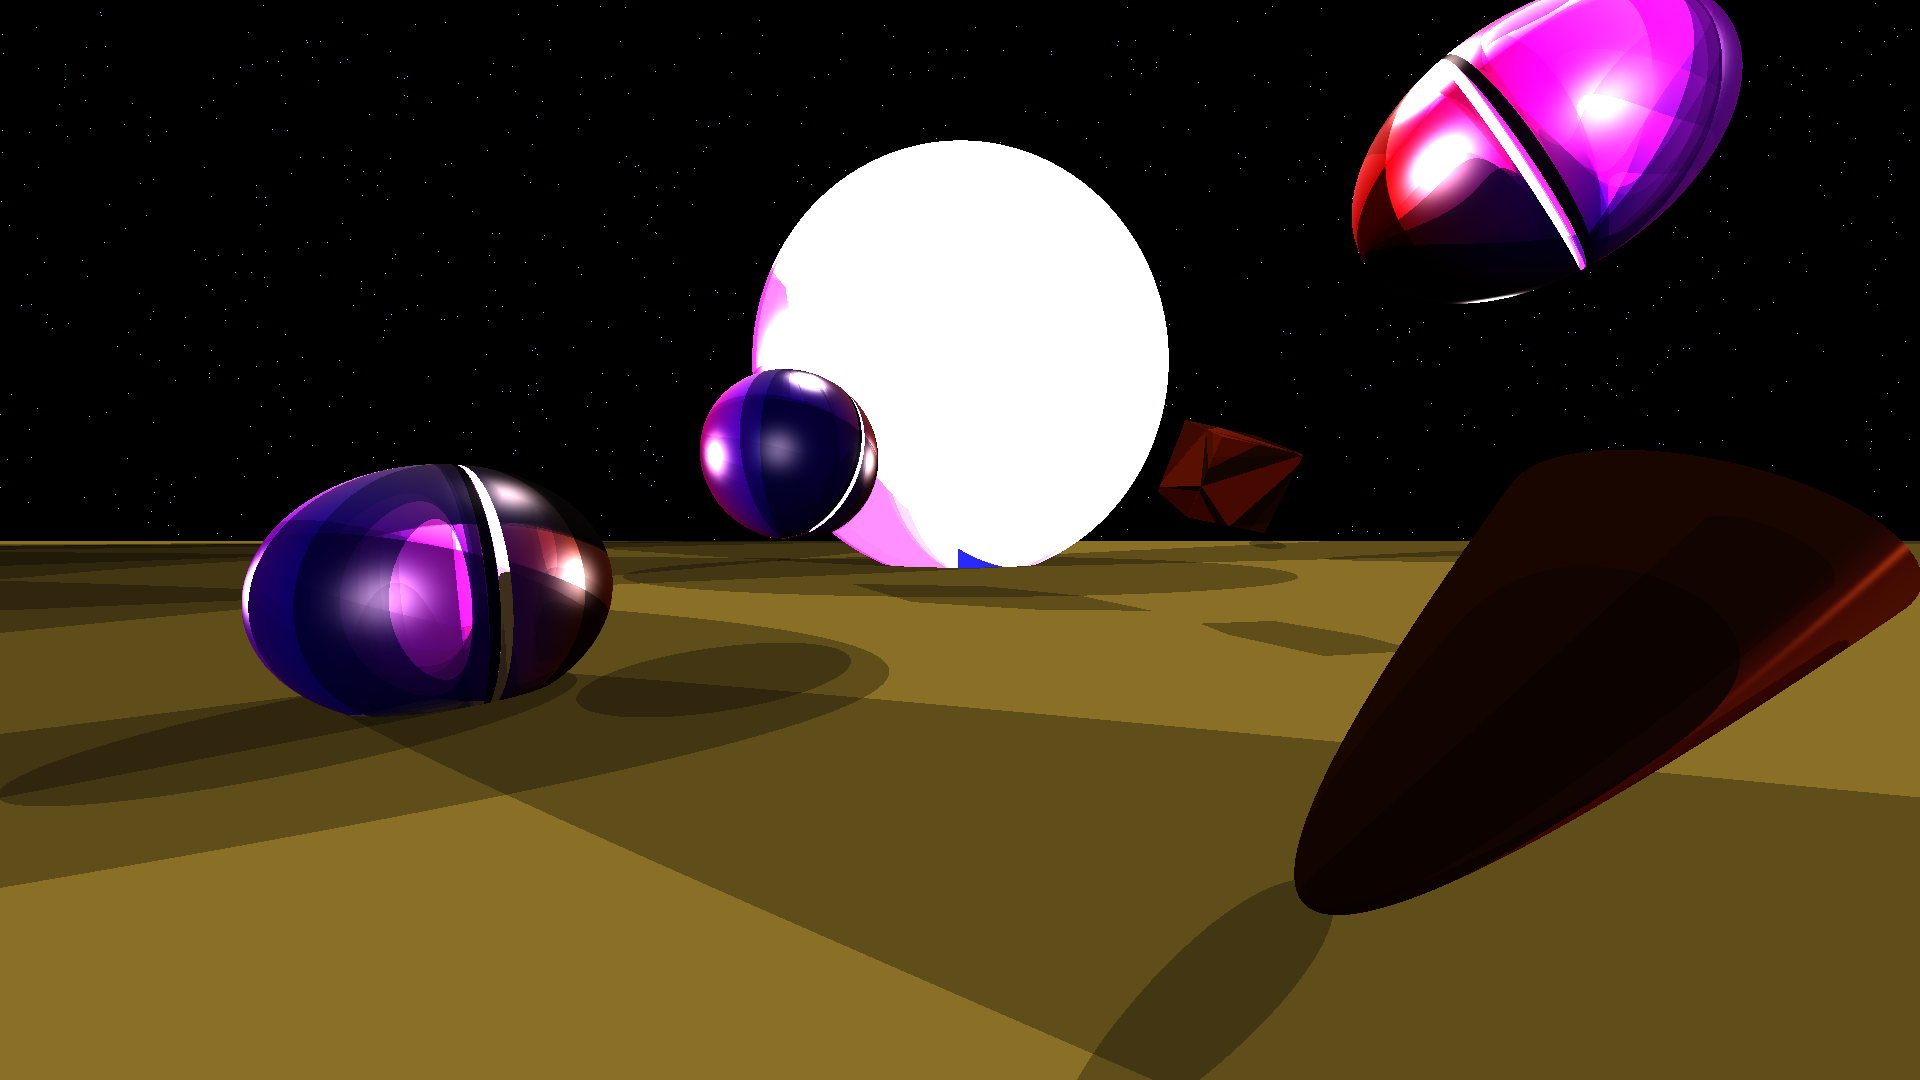
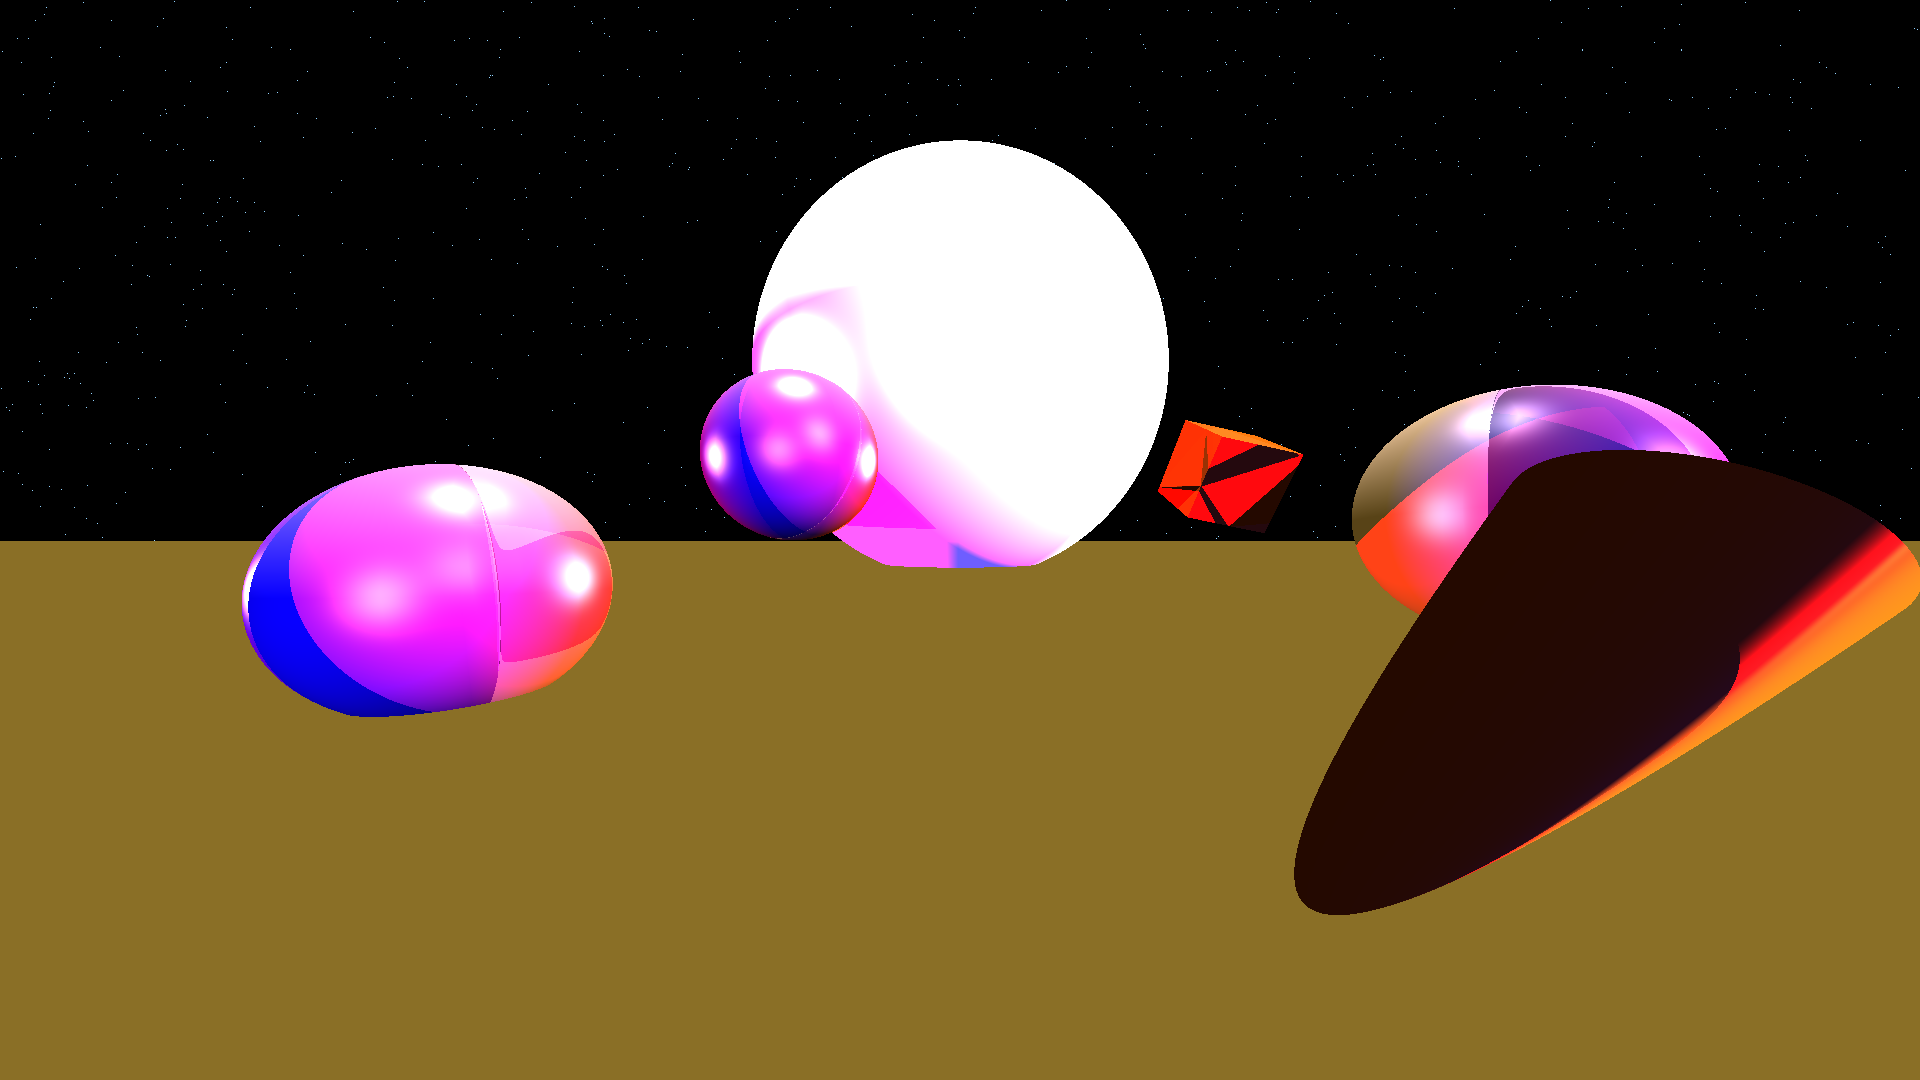
Slight fix to reflections

diff --git a/src/main/Renderer.java b/src/main/Renderer.java
@@ -16,9 +16,9 @@ import java.util.Map;
 import java.util.Random;
 
 public class Renderer {
-    private final double LIGHTSOURCEFACTOR = 0.01;
+    private final double LIGHTSOURCEFACTOR = 0.1;
     private final double EPSILON = 0.1; // the difference that will be subtracted for shadowing
-    private final int MAXRECURSELEVEL = 5; // TODO: move to SDL parameter
+    private final int MAXRECURSELEVEL = 2; // TODO: move to SDL parameter
     private final double DW = 1; // width lightbeam coming from source
 
     private final JFrame frame;
@@ -153,8 +153,6 @@ public class Renderer {
     }
 
     private double[] getShading(Ray ray, Object currentObject, Intersection intersection, double[] rgb, int recurseLevel) {
-        double[] previousRgb = rgb.clone();
-
         double[] ambient = currentObject.getMaterial().getAmbient();
         double[] diffuse = currentObject.getMaterial().getDiffuse(); // We don't use this one anymore
         double[] specular = currentObject.getMaterial().getSpecular();
@@ -162,16 +160,14 @@ public class Renderer {
         double[] v = ray.getDir().getCoords().clone();
         v = Arrays.stream(v).map(value -> value * -1).toArray();
 
-        // m is the roughness of the material
         double mRoughness = currentObject.getMaterial().getRoughness();
+
         double[] normalVector = Utility.multiplyMatrices(intersection.getNormalVector(), Utility.transpose(currentObject.getTransformation().getTransformation()));
         if (currentObject instanceof Sphere) {
             //normalvector - center of sphere
-            double[] center = new double[]{0, 0, 0, 1};
-            center = Utility.multiplyMatrices(center, Utility.transpose(currentObject.getTransformation().getTransformation()));
+            double[] center = new double[]{0, 0, 0, 1}; // a point
             normalVector = Utility.subtract(normalVector, center);
         }
-
         normalVector = Utility.normalize(normalVector);
 
         // the fresnel coeff is the fraction that is reflected and will be higher with higher refractionindices
@@ -209,9 +205,9 @@ public class Renderer {
             Vector dir = new Vector(lightsource.getKey().getX() - hitpoint.getX(), lightsource.getKey().getY() - hitpoint.getY(), lightsource.getKey().getZ() - hitpoint.getZ(), 0);
 
             if (isInShadow(start, dir)) {
-                for (int i = 0; i < 3; i++) {
-                    rgb[i] -= rgb[i] * 30 * LIGHTSOURCEFACTOR; // dim the scene a bit
-                }
+                /*for (int i = 0; i < 3; i++) {
+                    rgb[i] -= rgb[i] * LIGHTSOURCEFACTOR; // dim the scene a bit
+                }*/
                 continue;
             }
 
@@ -251,9 +247,6 @@ public class Renderer {
                 if (mDoth > 0.0001) {
                     // angle between h and transposedNormalVector
                     double angle = getAngle(normalVector, h);
-                    if (Double.isNaN(angle)) {
-                        getAngle(normalVector, h);
-                    }
                     double d = Math.exp(-Math.pow(Math.tan(angle) / mRoughness, 2)) / (4 * mRoughness * mRoughness * Math.pow(Math.cos(angle), 4));
 
                     // G will scale the strength of the specular component
@@ -286,53 +279,52 @@ public class Renderer {
                         rgb[i] += specular[i] * currentObject.getMaterial().getkDistribution()[2] * DW * phongSpecularRGB[i];
                     }
                 }
-                /*
-                    REFLECTION
-                 */
 
-
-                if (Double.isNaN(rgb[0]))
-                    getShading(ray, currentObject, intersection, previousRgb, recurseLevel);
-
-                if (recurseLevel != MAXRECURSELEVEL) {
-                    if (currentObject.getMaterial().getShininess() >= 0.6) {
-                        // spawn ray from hitpoint and call getShade()
-                        double[] r = new double[4];
-                        Vector normalVectorVector = new Vector(normalVector);
-                        for (int i = 0; i < r.length; i++) {
-                            r[i] = ray.getDir().getCoords()[i] - 2 * (Utility.dot(ray.getDir(), normalVectorVector)) * normalVector[i];
-                        }
-
-                        Vector newDir = new Vector(r);
-                        Ray newRay = new Ray(start, newDir);
-
-                        Tuple<Object, Intersection> objectIntersection = getHit(newRay);
-
-                        Object reflectedObjectHit = objectIntersection.getObject();
-                        Intersection reflectedIntersectionHit = objectIntersection.getIntersection();
-
-                        if (reflectedObjectHit != null) {
-                            recurseLevel++;
-                            double[] reflectedColors = getShading(newRay, reflectedObjectHit, reflectedIntersectionHit, rgb.clone(), recurseLevel);
-
-                            if (Double.isNaN(reflectedColors[0]))
-                                System.out.printf("");
-
-                            for (int i = 0; i < 3; i++) {
-                                if (!Double.isNaN(reflectedColors[i]))
-                                    rgb[i] += currentObject.getMaterial().getShininess() * reflectedColors[i];
-
-                            }
-                        }
-                    }
-
-                    /* TODO
-                    if (currentObject.getMaterial().getTransparancy() >= 0.6) {
-
-
-                    } */
-                }
             }
+        }
+
+        /*
+            REFLECTION & TRANSPARENCY
+        */
+
+        if (Double.isNaN(rgb[0])) {
+            //getShading(ray, currentObject, intersection, previousRgb, recurseLevel);
+            System.out.println("Nan Found");
+        }
+
+        if (recurseLevel <= MAXRECURSELEVEL && currentObject.getMaterial().getShininess() >= 0.6) {
+            // spawn ray from hitpoint and call getShade()
+            double[] r = new double[4];
+            Vector vectorNormalVector = new Vector(normalVector);
+            double dirDotNormalvector = Utility.dot(ray.getDir(), vectorNormalVector);
+            for (int i = 0; i < r.length; i++) {
+                r[i] = ray.getDir().getCoords()[i] - 2 * dirDotNormalvector * normalVector[i];
+            }
+
+            Vector newDir = new Vector(r);
+            Ray newRay = new Ray(Utility.normalize(start), newDir);
+
+            Tuple<Object, Intersection> objectIntersection = getHit(newRay);
+
+            Object reflectedObjectHit = objectIntersection.getObject();
+            Intersection reflectedIntersectionHit = objectIntersection.getIntersection();
+
+            if (reflectedObjectHit != null && reflectedObjectHit != currentObject) {
+                recurseLevel++;
+                double[] reflectedColors = getShading(newRay, reflectedObjectHit, reflectedIntersectionHit, rgb.clone(), recurseLevel);
+
+                if (Double.isNaN(reflectedColors[0]))
+                    System.out.println("Nan found");
+
+                for (int i = 0; i < 3; i++)
+                    rgb[i] += currentObject.getMaterial().getShininess() * reflectedColors[i];
+            }
+
+            /* TODO
+            if (currentObject.getMaterial().getTransparancy() >= 0.6) {
+
+
+             } */
         }
 
         return rgb;

diff --git a/src/main/Main.java b/src/main/Main.java
@@ -27,7 +27,7 @@ public class Main {
         */
 
         // scene
-        Vector lightsourceWhite = new Vector(-1000, 0, -2000, 1); // location
+        Vector lightsourceWhite = new Vector(-1000, 0, -20000, 1); // location
         Vector lightsourceBlue = new Vector(500, 0, -1, 1); // location
         Vector lightsourceRed = new Vector(0, -1000, -10, 1); // location
         Vector lightsourceOrange = new Vector(-1000, 1000, -100, 1); // location
@@ -45,7 +45,7 @@ public class Main {
         scene.setCamera(camera);
 
         Transformation translationSphereRuby = new Translation(200, -100, -50);
-        Transformation translationSphereRuby3 = new Translation(300, 220, -150);
+        Transformation translationSphereRuby3 = new Translation(300, 220, -10);
         Transformation translationSphereRuby4 = new Translation(300, -200, 20);
         Transformation translationSphereChrome = new Translation(-800, 0, -400);
         Transformation translationCube = new Translation(120, 200, -50);
